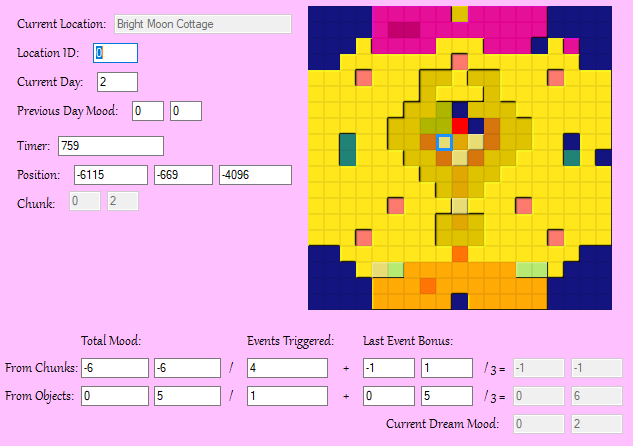
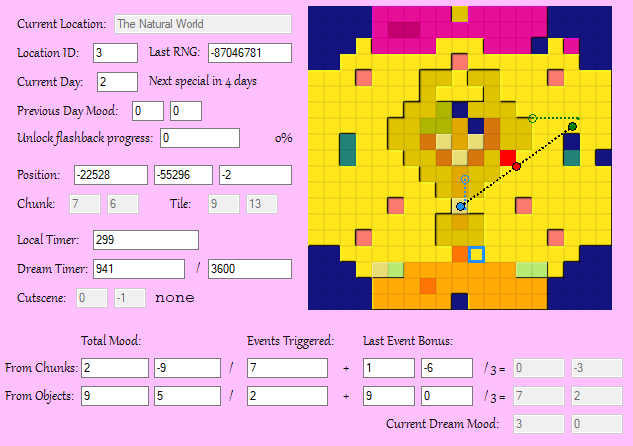
Updated Readme

diff --git a/README.md b/README.md
@@ -1,5 +1,7 @@
 A fork of Lucid Dream Explorer with a focus on providing an accurate real-time "prediction" on the position of the dream in the Dream Chart.
+
 Lucid-Dream-Explorer is a tool designed for exploration of the PS1 game LSD: Dream Emulator. Built by Fhoughton using code from Muscle Trainer by ConfuseMe.
+
 This program is tested to work on psxfin 1.13 and NO$PSX 2.2.
 
 ![Sample screenshot](Sample.png)
@@ -11,8 +13,16 @@ This program is tested to work on psxfin 1.13 and NO$PSX 2.2.
 - To edit a value select it and then type a new value and press enter to write it back into memory.
 
 ## New Features:
-- The flashing red square in the dream chart provides an accurate real-time representation of the current dream rating, as it would appear in the graph screen should the dream end there. It is theorised that the location of this point affects the appearance of rare events.
-- The hollow blue square in the chart, on the other hand, shows the Mood Value assocciated with the [map chunk](https://docs.lsdrevamped.net/lsd-de-research/static-analysis/file-formats#lbd) you're currently standing on. Barring some execeptions, every walkable chunk in the game has it's own position on the dream chart.
-- Previous Day Mood shows the final mood rating of the dream you last played. For any day besides the first, you can change this value to force the game to spawn you on a different location on your next dream.
-- Position: Chunk shows the position coordinates of the chunk you're currently at (not to be confused with the dream graph coordinates). For non-tower maps, Higher values are further East and further North respectively.
-- The values below the dream chart are multiple variables used to calculate the dream rating, you can change them individually to affect the final chart rating in various ways.
+- The dream chart graph provides visuals on various parts of the Dream Rating calculation, for more information on how the Dream Rating is calculated you can check the [Osamu Sato Wiki article about it](https://compu-lsd.com/w/Graph#Graph_formula).
+  - The flashing red square with the red dot on it provides an accurate real-time representation of the current dream rating, as it would appear in the graph screen should the dream end there. It is theorised that the location of this point affects the appearance of rare events.
+  - The hollow blue square in the chart, on the other hand, shows the Mood Value assocciated with the [map chunk](https://docs.lsdrevamped.net/lsd-de-research/static-analysis/file-formats#lbd) you're currently standing on. Barring some execeptions, every walkable chunk in the game has it's own position on the dream chart.
+  - Once you visited more than one map chunk, the small blue ring shows the raw average point between all chunks visited, while the dotted blue line extending out of it shows the displacement caused by the "recency bonus" of the current Mood Value.
+  - If you have interacted with at least one entity this dream, the green ring and line will show the average point for the entities part of the formula. While the blue and green outlined dots show the final, truncated results for the Area Point and Entity Point respectively. from the mid-point of these two result points the red Final Rating point is drawn.
+
+- The "Last RNG" box shows the value currently stored on the game's [Pseudorandom number generator](https://en.wikipedia.org/wiki/Pseudorandom_number_generator), mostly intended to show how often and for what reasons that number changes, but you could in theory write your own numbers in there to affect the outcome of randomness in the game. 
+- The "Previous Day Mood" box shows the final mood rating of the dream you last played. For any day besides the first, you can change this value to force the game to spawn you on a different location on your next dream.
+- The "Flashback progress" contains the "score" the game keeps track of to decide if you have unlocked the flashback mechanic. You need a value of at least 10000000 (Ten Million), on top of a non-empty flashback compilation, in order for the flashback option to show up in the main menu.
+- Below the player position boxes, you can now see the chunk and tile associated with that position.
+- The Dream Timer shows how long you have been in a dream, according to the game. And also the time limit of the current dream.
+- The cutscene box shows the code used by the game to queue up Event/Special Days cinematics, the text next to it is the tool's prediction of what the filename of that cutscene is. 
+- The values below the dream chart are the multiple variables used on the dream rating formula, you can change them individually to affect the final chart rating in various ways.
